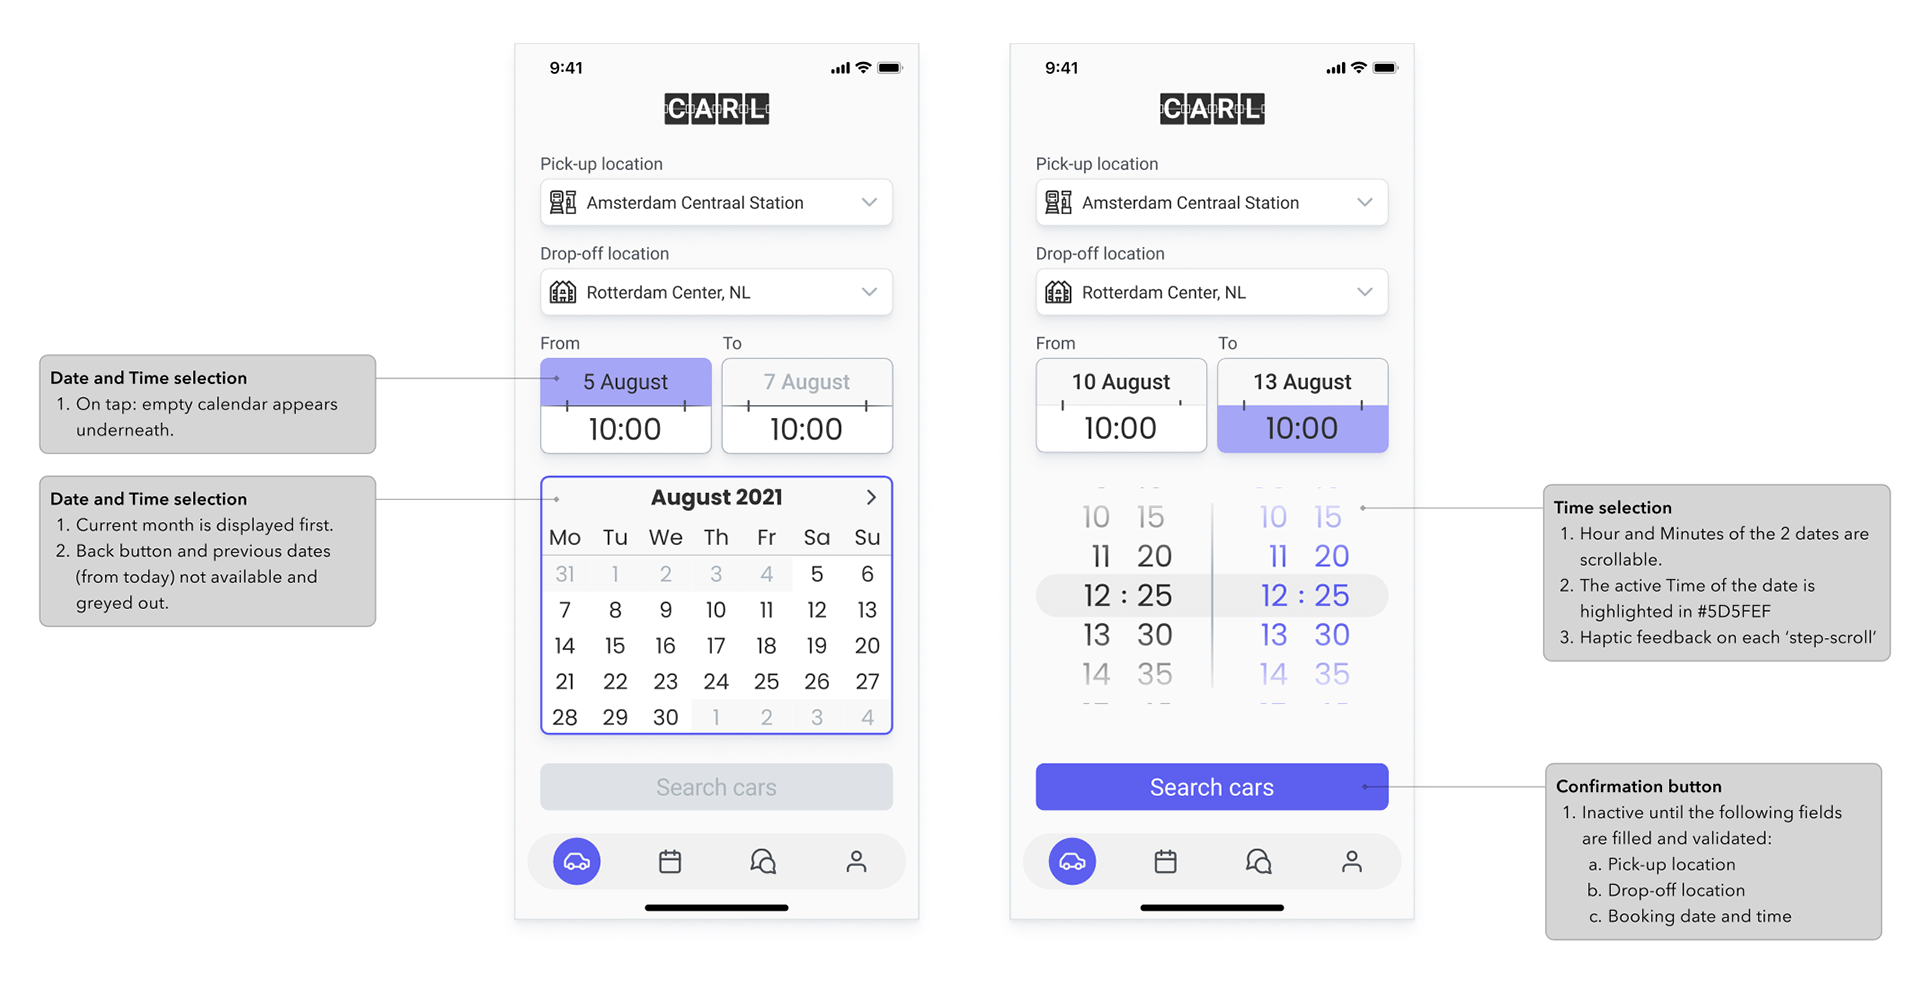
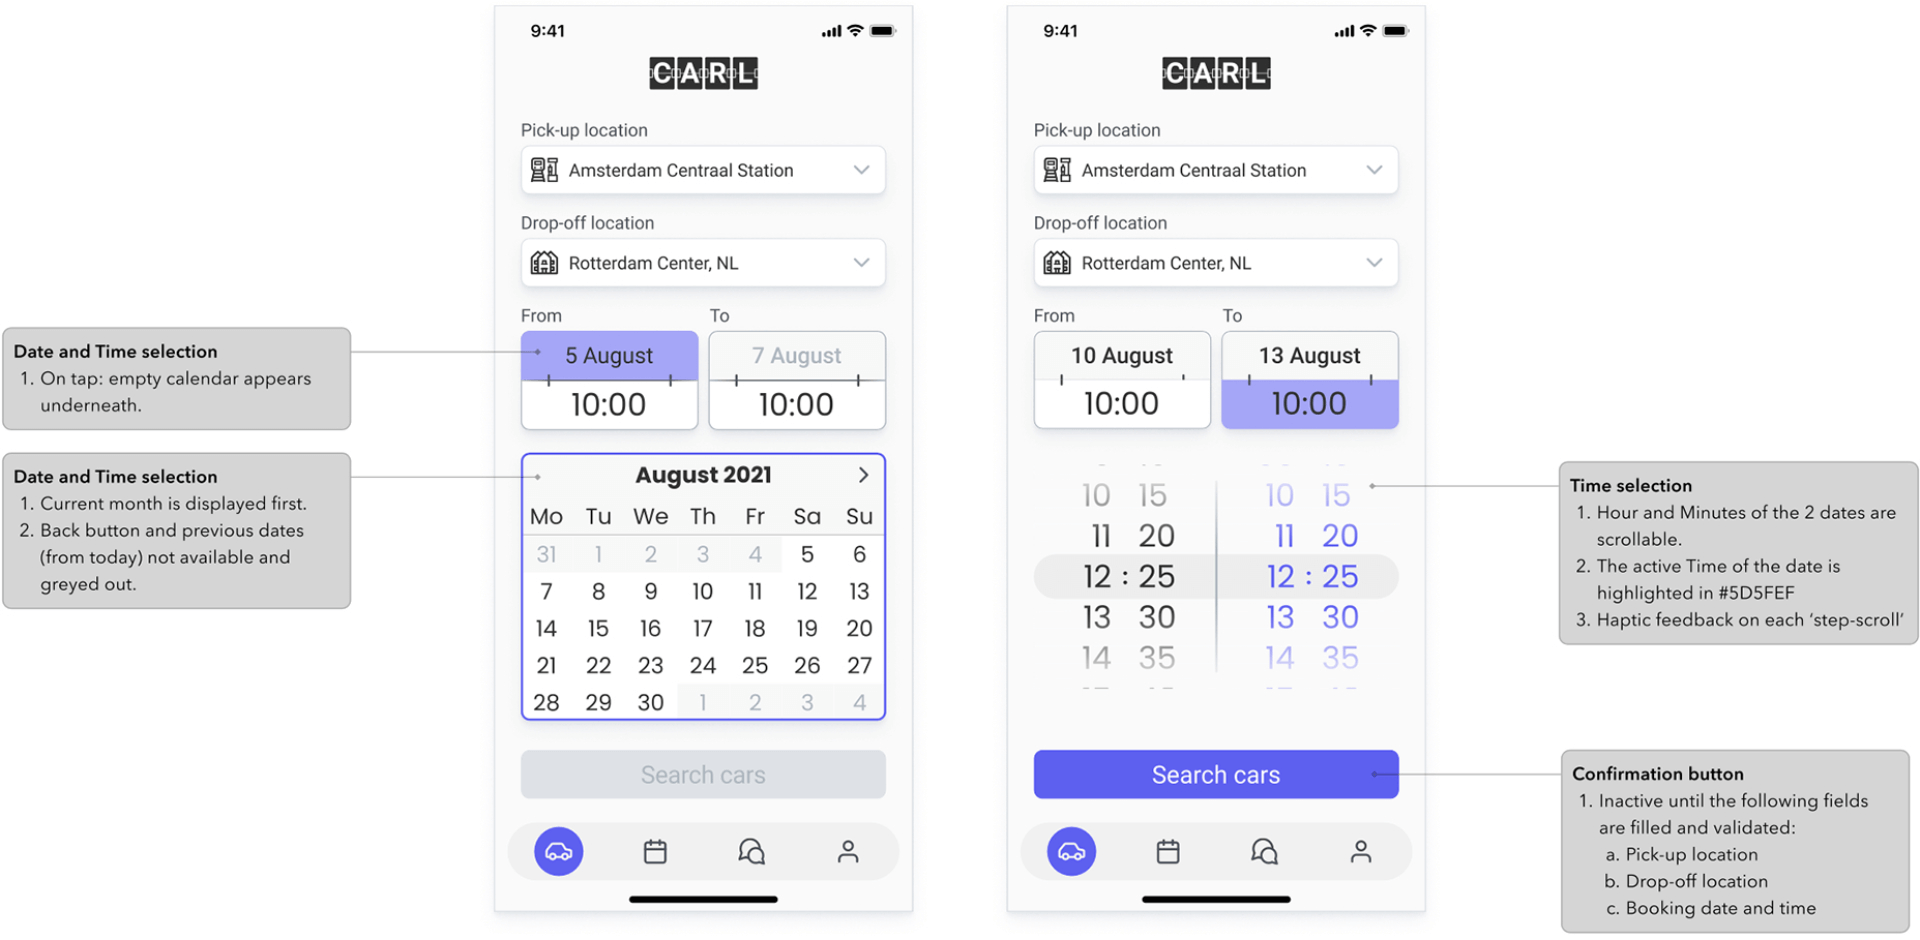
update carl

diff --git a/carl.html b/carl.html
@@ -166,7 +166,7 @@
         <p>
           Mapping a persona's user journey revealed how helpful it would be for users to have access to a car rental app that would better explain the booking process, and help the user figure out which extras/protections to take or not.
         </p>
-        <img src="assets/img/portfolio/project3/view-02.jpg" alt="Project image">
+        <img src="assets/img/portfolio/project3/view-02.png" alt="Project image">
       </div>
 
       <div class="sub-section">
